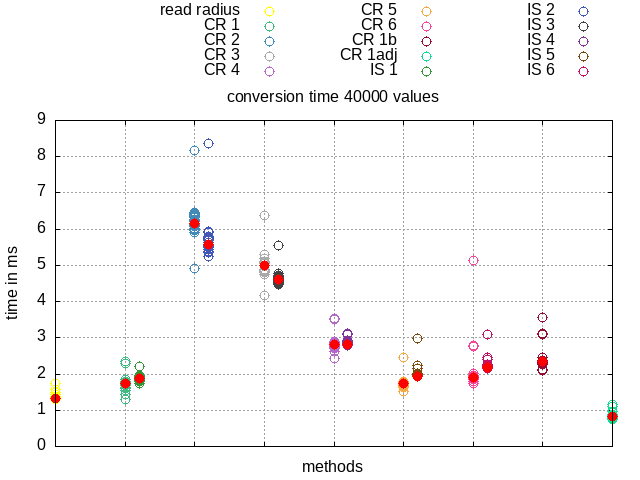
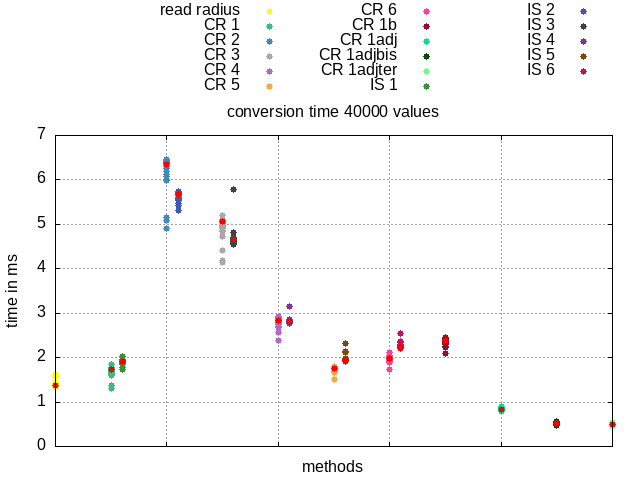
conversion: 3r, 4r

diff --git a/test_convert.c b/test_convert.c
@@ -8,6 +8,8 @@
 
 #define N 20000
 
+#define MAX_RATE 1e+300
+
 double get_time_ms() 
 {
     struct timeval tv;
@@ -44,6 +46,8 @@ int main(int argc, char **argv)
     FP_INT *CR_c6 = malloc(2 * N * sizeof(FP_INT));
     FP_INT *CR_c1b = malloc(2 * N * sizeof(FP_INT));
     FP_INT *CR_c1_adj = malloc(2 * N * sizeof(FP_INT));
+    FP_INT *CR_c1_adjbis = malloc(2 * N * sizeof(FP_INT));
+    FP_INT *CR_c1_adjter = malloc(2 * N * sizeof(FP_INT));
 
     C_R *CR_cr1 = malloc(2 * N * sizeof(C_R));
     C_R *CR_cr2 = malloc(2 * N * sizeof(C_R));
@@ -53,6 +57,8 @@ int main(int argc, char **argv)
     C_R *CR_cr6 = malloc(2 * N * sizeof(C_R));
     C_R *CR_cr1b = malloc(2 * N * sizeof(C_R));
     C_R *CR_cr1_adj = malloc(2 * N * sizeof(C_R));
+    C_R *CR_cr1_adjbis = malloc(2 * N * sizeof(C_R));
+    C_R *CR_cr1_adjter = malloc(2 * N * sizeof(C_R));
 
     FP_INT *IS_c1 = malloc(2 * N * sizeof(FP_INT));
     FP_INT *IS_c2 = malloc(2 * N * sizeof(FP_INT));
@@ -72,6 +78,20 @@ int main(int argc, char **argv)
     const double c_exp_max = 9.0;
     const double r_exp_min = -10.0;
     const double r_exp_max = -3.0;
+
+    double e1_max = 0;
+    double e1_min = MAX_RATE;
+    double e2_max = 0;
+    double e2_min = MAX_RATE;
+    double e3_max = 0;
+    double e3_min = MAX_RATE;
+
+    double r1_max = 0;
+    double r1_min = MAX_RATE;
+    double r2_max = 0;
+    double r2_min = MAX_RATE;
+    double r3_max = 0;
+    double r3_min = MAX_RATE;
 
     srand(get_time_ms());    
 
@@ -158,6 +178,20 @@ int main(int argc, char **argv)
         CR_c1_adj[i] = CR_FP1_adj(test_int[i]);
     }
     double end1_adj = get_time_ms();
+
+    double start1_adjbis = get_time_ms();
+    for (int i = 0; i < 2 * N; i ++)
+    {
+        CR_c1_adjbis[i] = CR_FP1_adjbis(test_int[i]);
+    }
+    double end1_adjbis = get_time_ms();
+
+    double start1_adjter = get_time_ms();
+    for (int i = 0; i < 2 * N; i ++)
+    {
+        CR_c1_adjter[i] = CR_FP1_adjter(test_int[i]);
+    }
+    double end1_adjter = get_time_ms();
   
     double start111 = get_time_ms();
     for (int i = 0; i < 2 * N; i ++)
@@ -212,6 +246,8 @@ int main(int argc, char **argv)
         CR_cr6[i] = FP_CR(CR_c6[i]);
         CR_cr1b[i] = FP_CR(CR_c1b[i]);
         CR_cr1_adj[i] = FP_CR(CR_c1_adj[i]);
+        CR_cr1_adjbis[i] = FP_CR(CR_c1_adjbis[i]);
+        CR_cr1_adjter[i] = FP_CR(CR_c1_adjter[i]);
         IS_cr1[i] = FP_CR(IS_c1[i]);
         IS_cr2[i] = FP_CR(IS_c2[i]);
         IS_cr3[i] = FP_CR(IS_c3[i]);
@@ -227,10 +263,11 @@ int main(int argc, char **argv)
         perror("Failed to open convert_time.txt");
         return 1;
     }
-    fprintf(fp, "%.6e\t%.6e\t%.6e\t%.6e\t%.6e\t%.6e\t%.6e\t%.6e\t%.6e\t%.6e\t%.6e\t%.6e\t%.6e\t%.6e\t%.6e\t(ms)\n", 
-        end1 - start1, end2 - start2, end3 - start3, end4 - start4, (end0 - start0) / 14.0, 
+    fprintf(fp, "%.6e\t%.6e\t%.6e\t%.6e\t%.6e\t%.6e\t%.6e\t%.6e\t%.6e\t%.6e\t%.6e\t%.6e\t%.6e\t%.6e\t%.6e\t%.6e\t%.6e\t(ms)\n", 
+        end1 - start1, end2 - start2, end3 - start3, end4 - start4, (end0 - start0) / 16.0, 
         end111 - start111, end222 - start222, end333 - start333, end444 - start444, end5 - start5, end555 - start555, 
-        end6 - start6, end666 - start666, end1b - start1b, end1_adj - start1_adj); 
+        end6 - start6, end666 - start666, end1b - start1b, end1_adj - start1_adj, 
+        end1_adjbis - start1_adjbis, end1_adjter - start1_adjter); 
     fclose(fp);  
 
     FILE *fp2 = fopen("CR_FPINT_res.txt", "a");
@@ -240,6 +277,7 @@ int main(int argc, char **argv)
         return 1;
     }
 
+    FILE *fpdil = fopen("dilat.txt", "a");
     for(int i = 0; i < 2 * N; i += 1000)
     {
         fprintf(fp2, "test_int[%d] = [%.10e,\t%.10e]\n", i, test_int[i].center - test_int[i].radius, test_int[i].center + test_int[i].radius);
@@ -279,7 +317,43 @@ int main(int argc, char **argv)
         fprint_binary(fp2, CR_cr1_adj[i].center);
         fprint_binary(fp2, CR_cr1_adj[i].radius);
         fprintf(fp2, "\n");
+        fprintf(fp2, "CR1adjbis:\n");
+        fprint_binary(fp2, CR_c1_adjbis[i]);
+        fprint_binary(fp2, CR_cr1_adjbis[i].center);
+        fprint_binary(fp2, CR_cr1_adjbis[i].radius);
+        fprintf(fp2, "\n");
+        fprintf(fp2, "CR1adjter:\n");
+        fprint_binary(fp2, CR_c1_adjter[i]);
+        fprint_binary(fp2, CR_cr1_adjter[i].center);
+        fprint_binary(fp2, CR_cr1_adjter[i].radius);
+        fprintf(fp2, "\n");
+
+        double r1 = 2 * CR_cr1_adj[i].radius / test_int[i].radius;
+        double r2 = 3 * CR_cr1_adjbis[i].radius / test_int[i].radius;
+        double r3 = 4 * CR_cr1_adjter[i].radius / test_int[i].radius;
+
+        double e1 = test_int[i].radius / test_int[i].center;
+        double e1_rate = 2 * CR_cr1_adj[i].radius / CR_cr1_adj[i].center / e1;
+        double e2_rate = 3 * CR_cr1_adjbis[i].radius / CR_cr1_adjbis[i].center / e1;
+        double e3_rate = 4 * CR_cr1_adjter[i].radius / CR_cr1_adjter[i].center / e1;
+
+        r1_max = fmax(r1_max, r1);
+        r1_min = fmin(r1_min, r1);
+        r2_max = fmax(r2_max, r2);
+        r2_min = fmin(r2_min, r2);
+        r3_max = fmax(r3_max, r3);
+        r3_min = fmin(r3_min, r3);
+        e1_max = fmax(e1_max, e1_rate);
+        e1_min = fmin(e1_min, e1_rate);
+        e2_max = fmax(e2_max, e2_rate);
+        e2_min = fmin(e2_min, e2_rate);
+        e3_max = fmax(e3_max, e3_rate);
+        e3_min = fmin(e3_min, e3_rate);
     }
+
+    fprintf(fpdil, "%.10e\t%.10e\t%.10e\t%.10e\t%.10e\t%.10e\t%.10e\t%.10e\t%.10e\t%.10e\t%.10e\t%.10e\n", 
+        e1_max, e1_min, r1_max, r1_min, e2_max, e2_min, r2_max, r2_min, e3_max, e3_min, r3_max, r3_min);
+    fclose(fpdil);
 
     for (int i = 0; i < 2 * N; i ++)
     {   
@@ -377,6 +451,30 @@ int main(int argc, char **argv)
             fprint_binary(fp2, CR_c1_adj[i]);
             fprint_binary(fp2, CR_cr1_adj[i].center);
             fprint_binary(fp2, CR_cr1_adj[i].radius);
+        }
+
+        if (CR_c1_adjbis[i] - 3 * CR_cr1_adjbis[i].radius > test_int[i].center - test_int[i].radius || 
+            CR_c1_adjbis[i] + 3 * CR_cr1_adjbis[i].radius < test_int[i].center + test_int[i].radius)
+        {
+            fprintf(fp2, "CR_c1_adjbis = [%.10e,\t%.10e]\t", CR_c1_adjbis[i] - CR_cr1_adjbis[i].radius, CR_c1_adjbis[i] + CR_cr1_adjbis[i].radius);
+            fprintf(fp2, "Error\n");
+            fprint_binary(fp2, test_int[i].center);
+            fprint_binary(fp2, test_int[i].radius);
+            fprint_binary(fp2, CR_c1_adjbis[i]);
+            fprint_binary(fp2, CR_cr1_adjbis[i].center);
+            fprint_binary(fp2, CR_cr1_adjbis[i].radius);
+        }
+
+        if (CR_c1_adjter[i] - 4 * CR_cr1_adjter[i].radius > test_int[i].center - test_int[i].radius || 
+            CR_c1_adjter[i] + 4 * CR_cr1_adjter[i].radius < test_int[i].center + test_int[i].radius)
+        {
+            fprintf(fp2, "CR_c1_adjter = [%.10e,\t%.10e]\t", CR_c1_adjter[i] - CR_cr1_adjter[i].radius, CR_c1_adjter[i] + CR_cr1_adjter[i].radius);
+            fprintf(fp2, "Error\n");
+            fprint_binary(fp2, test_int[i].center);
+            fprint_binary(fp2, test_int[i].radius);
+            fprint_binary(fp2, CR_c1_adjter[i]);
+            fprint_binary(fp2, CR_cr1_adjter[i].center);
+            fprint_binary(fp2, CR_cr1_adjter[i].radius);
         }
     }
     fclose(fp2);
@@ -493,6 +591,9 @@ int main(int argc, char **argv)
     free(CR_c5);
     free(CR_c6);
     free(CR_c1b);
+    free(CR_c1_adj);
+    free(CR_c1_adjbis);
+    free(CR_c1_adjter);
 
     free(CR_cr1);
     free(CR_cr2);
@@ -501,6 +602,9 @@ int main(int argc, char **argv)
     free(CR_cr5);
     free(CR_cr6);
     free(CR_cr1b);
+    free(CR_cr1_adj);
+    free(CR_cr1_adjbis);
+    free(CR_cr1_adjter);
 
     free(IS_c1);
     free(IS_c2);

diff --git a/convert.c b/convert.c
@@ -473,6 +473,96 @@ FP_INT CR_FP1_adj(C_R int_cr)
     return c_tilde;
 }
 
+
+FP_INT CR_FP1_adjbis(C_R int_cr)
+{
+    union ieee754_double u1, u2;
+    u1.d = int_cr.center;
+    u2.d = int_cr.radius;
+    int e_c = u1.ieee.exponent - DOUBLE_ULS;
+    int e_r = u2.ieee.exponent - DOUBLE_ULS;
+    int p = int_min(e_c - e_r, DOUBLE_E);
+    FP_INT c_tilde = int_cr.center;
+    double r_tilde = 0.0;
+    int s = get_sign_bit(int_cr.center);
+    int b = 1 ^ s;
+    double u = set_pow2(e_c - 52);
+    while (true)
+    {
+        if (p > 0)
+        {
+            int index = DOUBLE_E - p;
+            c_tilde = truncate_m(c_tilde, index);
+            c_tilde = set_m_bit1(c_tilde, index);
+            r_tilde = set_pow2(e_c - p);
+            b = read_m_bit(int_cr.center, index) ^ s;          
+        }
+        else
+        {
+            c_tilde = set_pow2(e_c - p);
+            c_tilde = set_sign_bit(c_tilde, s);
+            r_tilde = set_pow2(e_c - p);
+        }
+        
+        //compare      
+        if ((2*b-1)*int_cr.center + int_cr.radius + u <= (2*b-1)*c_tilde + 3 * r_tilde) 
+        {
+            break;
+        }
+        else
+        {
+            p --;
+        }
+    }     
+    return c_tilde;
+}
+
+
+FP_INT CR_FP1_adjter(C_R int_cr)
+{
+    union ieee754_double u1, u2;
+    u1.d = int_cr.center;
+    u2.d = int_cr.radius;
+    int e_c = u1.ieee.exponent - DOUBLE_ULS;
+    int e_r = u2.ieee.exponent - DOUBLE_ULS;
+    int p = int_min(e_c - e_r, DOUBLE_E);
+    FP_INT c_tilde = int_cr.center;
+    double r_tilde = 0.0;
+    int s = get_sign_bit(int_cr.center);
+    int b = 1 ^ s;
+    double u = set_pow2(e_c - 52);
+    while (true)
+    {
+        if (p > 0)
+        {
+            int index = DOUBLE_E - p;
+            c_tilde = truncate_m(c_tilde, index);
+            c_tilde = set_m_bit1(c_tilde, index);
+            r_tilde = set_pow2(e_c - p);
+            b = read_m_bit(int_cr.center, index) ^ s;          
+        }
+        else
+        {
+            c_tilde = set_pow2(e_c - p);
+            c_tilde = set_sign_bit(c_tilde, s);
+            r_tilde = set_pow2(e_c - p);
+        }
+        
+        //compare      
+        if ((2*b-1)*int_cr.center + int_cr.radius + u <= (2*b-1)*c_tilde + 4 * r_tilde) 
+        {
+            break;
+        }
+        else
+        {
+            p --;
+        }
+    }     
+    return c_tilde;
+}
+
+
+
 FP_INT IS_FP1(INF_SUP int_is)
 {
     double x = int_is.inf;

diff --git a/convert.h b/convert.h
@@ -48,6 +48,8 @@ FP_INT CR_FP5(C_R int_cr);
 FP_INT CR_FP6(C_R int_cr);
 FP_INT CR_FP1b(C_R int_cr);
 FP_INT CR_FP1_adj(C_R int_cr);
+FP_INT CR_FP1_adjbis(C_R int_cr);
+FP_INT CR_FP1_adjter(C_R int_cr);
 
 FP_INT IS_FP1(INF_SUP int_is);
 FP_INT IS_FP2(INF_SUP int_is);
